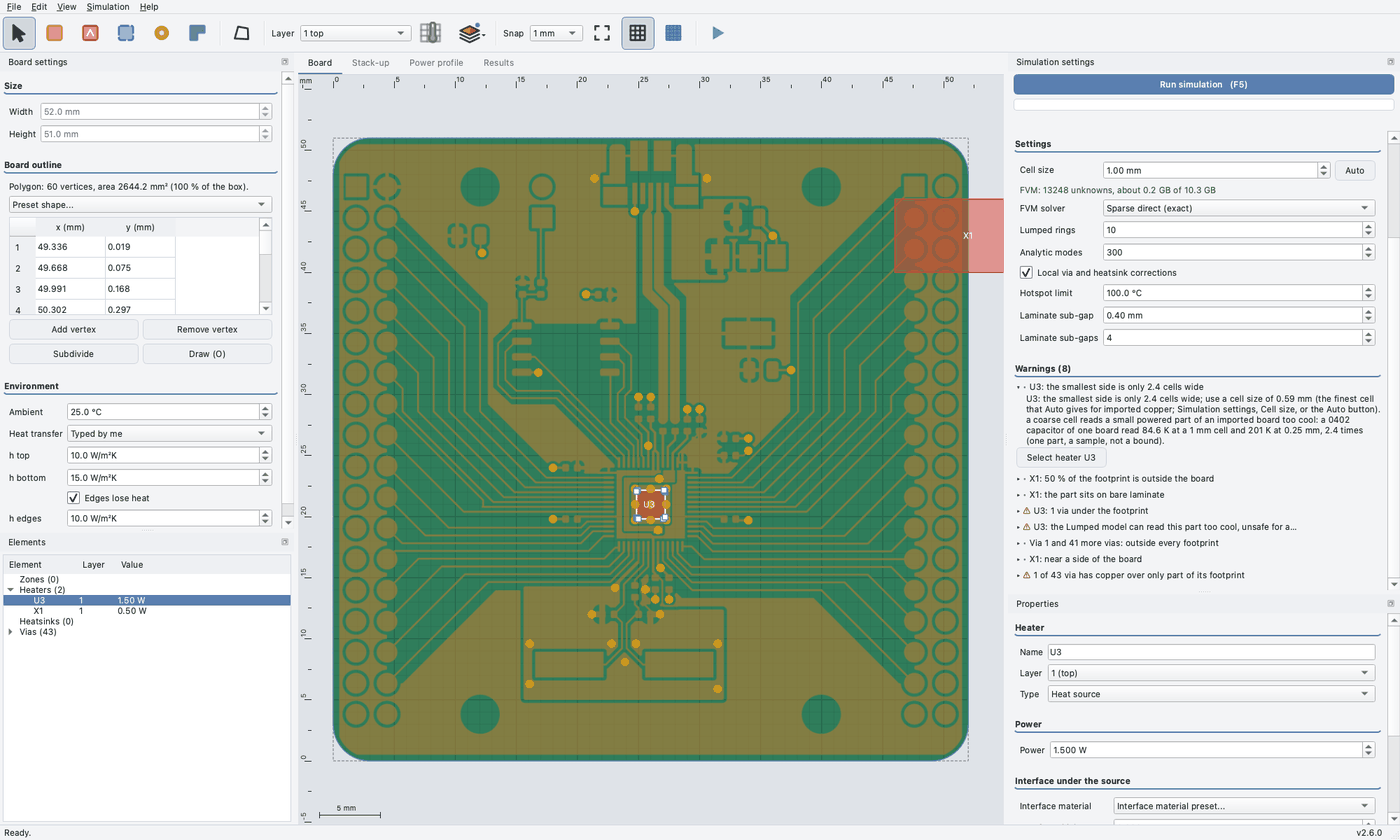
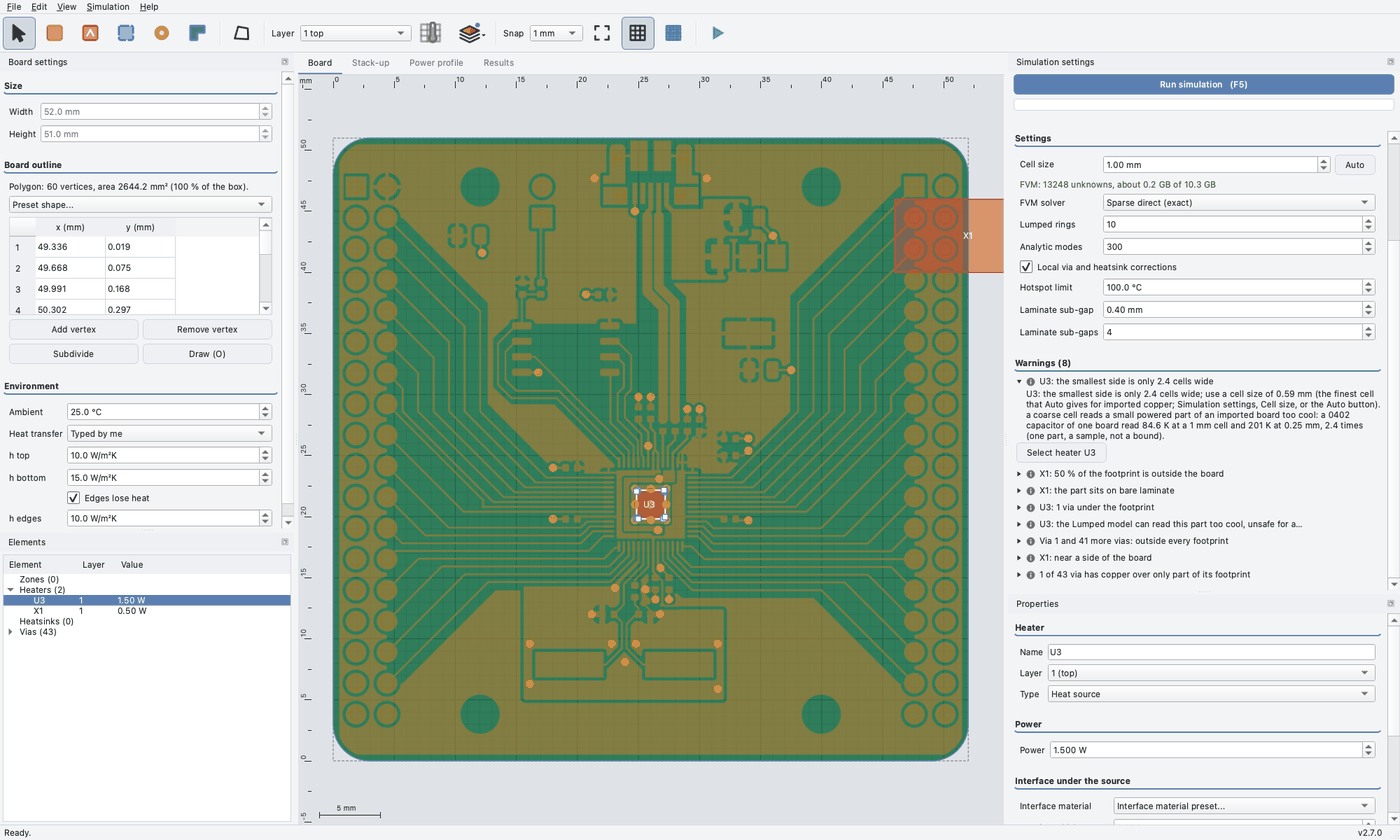
Review the warning badges and Run / Stop: pictures, guide, verdict
Regenerate the imported summary picture after the severity fix, replace
the user guide's stale copy of editor_warnings.png, say that the Power
Calculator is stopped by closing it and that Run is held briefly after
a Stop, add a stress scenario for the calculator job, and write the
review in releases/2.7.0/final-opinion/gui-warning-icons.md.

Claude-Session: https://claude.ai/code/session_01XgeLDd5tWg6CEJL9TQpCpU

diff --git a/pcbthermal/help/index.html b/pcbthermal/help/index.html
@@ -230,7 +230,7 @@ over the copper it overlaps through the interface resistance (grease or paste 0.
 <tr><td>Analytic modes</td><td>Number of cosine modes per direction (more resolve smaller parts).</td></tr>
 <tr><td>Local via and heatsink corrections</td><td>Apply vias and heatsinks locally in the analytical model instead of smearing them.</td></tr>
 <tr><td>Hotspot limit (°C)</td><td>Temperature above which an area is reported as a hotspot.</td></tr>
-<tr><td>Run / Stop</td><td>Run in the background. While any calculation runs (a simulation, an animation, a power-profile run or its analysis, the Power Calculator) the same button, in the dock and in the tool bar, reads <b>Stop</b> (<kbd>Ctrl</kbd>+<kbd>.</kbd>): it stops the calculation at once, nothing is kept from it, and the button is <b>Run</b> again when the calculation ends, fails or is cancelled. <kbd>F5</kbd> does nothing while a calculation runs. There is no Pause: a sparse solve cannot be paused.</td></tr>
+<tr><td>Run / Stop</td><td>Run in the background. While any calculation runs (a simulation, an animation, a power-profile run or its analysis, the Power Calculator) the same button, in the dock and in the tool bar, reads <b>Stop</b> (<kbd>Ctrl</kbd>+<kbd>.</kbd>): it stops the calculation at once, nothing is kept from it, and the button is <b>Run</b> again when the calculation ends, fails or is cancelled. <kbd>F5</kbd> does nothing while a calculation runs, and after a Stop the Run button comes back after a fraction of a second, so that a double click on Stop does not start a new run. The Power Calculator is a window of its own that keeps the keyboard and the mouse while it is open: there the calculation is stopped by closing the calculator. There is no Pause: a sparse solve cannot be paused.</td></tr>
 </table>
 
 <h2 id="models">9. The models</h2>

diff --git a/tests/test_gui_stress.py b/tests/test_gui_stress.py
@@ -1677,6 +1677,29 @@ def test_a_double_click_on_stop_does_not_start_a_new_run(win, qtbot):
         assert win.solver_panel.run.isEnabled()
 
 
+def test_the_power_calculator_job_shows_stop_and_is_cancelled(win, qtbot):
+    """The Power Calculator is modal, so the window's Stop cannot be clicked while it computes: the window shows Stop (its job is a calculation), the
+    cancel path stops it ('Cancelled.' in the calculator, Compute usable again), and closing the calculator also stops its job (review)."""
+    from pcbthermal.gui import calculator as calc, compute
+    load(win, example_board())
+    win.doc.set_options(models=("fvm",), cell_mm=0.5)
+    for how in ("stop", "close"):
+        dlg = calc.PowerCalculator(win.doc, win)
+        qtbot.addWidget(dlg)
+        dlg.band.setChecked(True)                                             # the band runs several solves: long enough to stop
+        dlg.measured.setValue(90.0)
+        dlg.compute.click()
+        qtbot.waitUntil(lambda: _is_stop(win), timeout=20000)
+        if how == "stop":
+            win.cancel_simulation()                                          # the same path as the Stop button and Ctrl+.
+            assert dlg.result.text() == "Cancelled." and dlg.compute.isEnabled()
+        else:
+            dlg.reject()                                                     # closing the calculator cancels its job
+        assert not compute.busy() and not compute.ENGINE.known
+        qtbot.waitUntil(lambda: _is_run(win), timeout=5000)
+        dlg.close()
+
+
 def test_stop_cancels_an_animation_and_a_profile_run(win, qtbot):
     """An animation and a power-profile run are calculations too: the button is Stop, a click cancels them, and Run returns."""
     load(win, example_board())

diff --git a/releases/2.7.0/final-opinion/gui-warning-icons.md b/releases/2.7.0/final-opinion/gui-warning-icons.md
@@ -1,0 +1,37 @@
+# Review of the severity badges, the explicit warning severity and Run / Stop (2.7.0)
+
+Branch `fix/gui-warning-icons-270` (from `develop` 5bcaf57c): the executor's commits d6122208 (severity), cc77c4e0 (badges), 41008a88 (Stop), 9f709a28 (tests and documents) and 8f2d4c94 (the overlapping-jobs stress test), then the corrections of this review, each with a test that fails without it.
+
+## Verdict
+
+**GO with the corrections below.** The Stop path is sound: one busy state for every calculation, the queued jobs cancelled before the running one, the button back to Run after an end, a failure and a cancel, no process left. The badges are drawn as the maintainer chose (solid amber triangle for an alert, grey circle for a note, beside a plain-text title, no bullet, accessible names) and are centred on the lowercase letters at device pixel ratio 1 and 2 in both themes. Two defects were found in the program and fixed, one test isolation defect and two stale pictures.
+
+## Findings, by severity
+
+1. **Defect in the program, a double click on Stop started a new run** (fixed, `MainWindow._on_busy`, `_release_run_hold`, `SolverPanel.set_hold`). The cancel is synchronous, so the button under the pointer is Run before the second click of a double click arrives. Reproduced offscreen through the real window with a press, release, double-click and release: on the dock button a new simulation was queued (busy, one job); on the toolbar the Run tool button that replaces Stop received the second click and started a run as well. Now Run (dock button and the action, so F5 and the toolbar too) stays disabled for one `QApplication.doubleClickInterval()` after a Stop and comes back by itself; a direct call of `run_simulation` (the API of the tests) is not held. Test `tests/test_gui_stress.py::test_a_double_click_on_stop_does_not_start_a_new_run` (fails on 9f709a28).
+2. **Defect in the program, notes shown as alerts in the Results summary** (fixed, `checks._SEVERE_WORDS`). The warnings of the models (`analytic`, `api`, `fvm`, `profiles`, `copper.model_warnings`) are still plain strings; `api.Simulation.warnings` gives them a severity through the old word list, which held `too hot`, `unsafe`, `unreliable`, `wrong`. So the Analytic copper-spread note (it quotes '9 % too hot') and the imported-copper `FILL_NOTE` ('7 to 10 % too hot') were drawn as alerts: on the harness boards `two_layer_partial`, `part_top_path`, `plate_pad`, and in the regenerated picture `results_summary_imported.png` (two triangles), against the maintainer's rule that a measured error is a note. The list now holds only failure words (`will not run`, `cannot`, `refus`, `not run`, `did not converge`, `did not settle`, `did not reach`, `heats nothing`, `runaway`): SOR not converging, the per-layer edge loop and the 3D solid not run stay alerts. The sweep test of the branch did not catch this because the summary wraps every plain string before the test looks (it checks that a severity exists, not where it came from). Test `tests/test_warning_severity.py::test_the_fallback_of_a_plain_model_string_follows_the_definition_of_an_alert`; `tests/test_theme_coherence.py` used 'unsafe' as its alert word and now uses a failure word. A run of the 17 harness boards: every input warning is explicit, every remaining word-classified run warning is a note.
+3. **Defect in a test, order dependence** (fixed, `tests/test_warning_icons.py::_all_cases`). The alignment measurement left the application at 16 pt and the last theme; `tests/test_gui.py::test_docks_open_wide_enough_and_keep_the_run_button_in_sight` then failed (dock 310 against 420 px) when run after it. The font and theme are restored; the two files pass together (33 passed).
+4. **Stale pictures** (fixed): `docs/images/results_summary_imported.png` regenerated after finding 2 (all notes now); `pcbthermal/help/editor_warnings.png`, the user guide's copy, was still the old picture with ⚠ and • (byte-identical to `docs/images` at 5bcaf57c): replaced by the regenerated one. `docs/images/editor_warnings.png`, `editor.png` and `results_summary.png` of the executor are right (neutral paths, the new badges, Run shown idle, never Stop). No other picture of `docs/images` or `pcbthermal/help` shows the Warnings rows or the old Cancel button (the others show the dock without warnings; `outline.png`, `stackup.png` and the like differ from a fresh run only by the 2.7.0 numbers of the status line, a release chore, not this branch).
+5. **Stale document** (fixed): the guide said that Stop covers the Power Calculator; the calculator is modal, so the window's Stop cannot be clicked while it computes (the window shows Stop, and closing the calculator stops its job). The Run / Stop row now says so and mentions the short hold after a Stop; `CHANGELOG.md` and `docs/versions.md` carry the two review corrections.
+6. **Limit to record**: the warnings of the models are still plain strings classified by words; a new model warning that names a failure in other words will be a note. Marking them at the source needs `warn` in a module that `analytic`, `fvm` and `profiles` can import without a cycle (`checks` imports them); a later item.
+7. **Limit to record (pre-existing)**: in `results_summary_imported.png` the dock's `Warnings (5)` box has no rows (it is so in the `develop` picture too); not looked into here.
+8. **Open for the maintainer**: which input warnings are alerts is the executor's reading of the rule. Borderline notes: a via outside the board ('ignored by every model'), a metal block that touches no copper ('takes almost no heat'), two heaters that overlap, a total power of zero. They are notes now.
+
+## Checked and found right
+
+* `gui/compute.py`: `_notify` after `submit`, `_finish`, `cancel`, the dead-process branch of `poll` and `shutdown`; `cancel_all` cancels the waiting jobs first (measured: simulation running, animation and analysis queued; cancelled in the order 1, 2, 0, no job started, no process alive, status 'Cancelled.' and 'Analysis failed: Cancelled.'); a cancel while the result already waits in the queue drops the result and leaves the state idle; a failing job gives Run back; closing the window (`shutdown`) emits idle.
+* `main_window.py`: the toolbar swaps the actions at the end (Run is the last action), `a_run` is disabled while busy so F5 does nothing, `Ctrl+.` is unchanged, the memory block of the dock button never leaves it as Stop or disabled after a run (`_style_run_button` recomputes from `blocked`); the separate Cancel button is gone and nothing refers to it.
+* The Power Calculator: its job makes the window show Stop; the cancel path stops it ('Cancelled.', Compute enabled again) and closing the dialog stops it (new test `test_the_power_calculator_job_shows_stop_and_is_cancelled`).
+* Severity: every `_add` and `warn` has a severity, the maintainer's two examples (outside the board: alert; 9 vias under the footprint: note), the field survives pickling; no warning text changed (every string literal removed from `checks.py` and `api.py` is present again in the added lines).
+* Badges: rendered offscreen at ratio 1 and 2, light and dark, an alert, an open note and wrapped titles: centred on the first line, the opened text indented under the badge, colours only from the `alert` and `muted` tokens, the cache keyed by kind, size, ratio and colour, redrawn from the current theme at each paint; the Results summary uses the same `WarningAccordion`.
+
+## Runs (on this branch with the corrections, offscreen)
+
+* `tests/regression` at 2 mm: **153 passed** (22.5 s): no number moves.
+* `tests/regression` with the documentation, licence-header, help, tooltip, shortcut, warning-text, warning-context, severity, icon, theme-coherence, boxes and version tests: 970 passed (1 min 44 s).
+* `tests/test_gui_stress.py` whole, with the three new Stop scenarios (double click, Power Calculator) and the executor's: **61 passed** (9 min 29 s, load average about 2).
+* `tests/test_warning_icons.py` with `tests/test_gui.py` in that order: 33 passed (failed before finding 3).
+
+## Not verified
+
+The real macOS display (SF font metrics, retina): offscreen only. The whole battery is the tester's.

diff --git a/CHANGELOG.md b/CHANGELOG.md
@@ -21,7 +21,7 @@ MAJOR for incompatible changes, MINOR for new features, PATCH for fixes. Release
 
 ### Changed
 
-- **Solid severity badges in the Warnings box and the Results summary, an explicit severity on every warning, and Run becomes Stop while a calculation runs** (`fix/gui-warning-icons-270`; display and control only, no number moves, no warning text changes): (1) each warning row shows a solid badge, an amber triangle with an exclamation mark for an **alert** (the model will not run, a part is off the board or heats nothing, a loop does not converge, the power runs away, the input is wrong) and a grey circle with an *i* for a **note**; the bullet is gone and the dock and the summary share the one component. The badge is its own widget drawn by QPainter in theme tokens (`alert`, `muted`) at the device pixel ratio and centred, from the font metrics, on the lowercase letters of the first line of the plain-text title (a test renders it at ratio 1 and 2, in both themes and three font sizes, and fails above 1 px); the accessible name of a row is *Warning: <title>* or *Note: <title>*. (2) The severity is a field set where the warning is created (`checks.warn`, `_add(severity=)`, the run warnings of `api.py`); the search for words in the text (`checks.warning_severity`) is only the fallback of plain strings, so *9 vias under the footprint* is a note although its text quotes *too hot*. (3) The Run button of the dock and of the tool bar is **Stop** (tooltip *Stop the calculation (Ctrl+.)*) while any calculation runs (simulation, animation, profile run, analysis, Power Calculator) and goes back to Run when it ends, fails or is cancelled; `F5` is ignored while one runs; there is no Pause. The separate Cancel button of the dock is gone (Stop is the same button; `Ctrl+.` is unchanged). Tests: `tests/test_warning_severity.py`, `tests/test_warning_icons.py`, the Stop scenarios of `tests/test_gui_stress.py`.
+- **Solid severity badges in the Warnings box and the Results summary, an explicit severity on every warning, and Run becomes Stop while a calculation runs** (`fix/gui-warning-icons-270`; display and control only, no number moves, no warning text changes): (1) each warning row shows a solid badge, an amber triangle with an exclamation mark for an **alert** (the model will not run, a part is off the board or heats nothing, a loop does not converge, the power runs away, the input is wrong) and a grey circle with an *i* for a **note**; the bullet is gone and the dock and the summary share the one component. The badge is its own widget drawn by QPainter in theme tokens (`alert`, `muted`) at the device pixel ratio and centred, from the font metrics, on the lowercase letters of the first line of the plain-text title (a test renders it at ratio 1 and 2, in both themes and three font sizes, and fails above 1 px); the accessible name of a row is *Warning: <title>* or *Note: <title>*. (2) The severity is a field set where the warning is created (`checks.warn`, `_add(severity=)`, the run warnings of `api.py`); the search for words in the text (`checks.warning_severity`) is only the fallback of plain strings, so *9 vias under the footprint* is a note although its text quotes *too hot*. (3) The Run button of the dock and of the tool bar is **Stop** (tooltip *Stop the calculation (Ctrl+.)*) while any calculation runs (simulation, animation, profile run, analysis, Power Calculator) and goes back to Run when it ends, fails or is cancelled; `F5` is ignored while one runs; there is no Pause. The separate Cancel button of the dock is gone (Stop is the same button; `Ctrl+.` is unchanged). Tests: `tests/test_warning_severity.py`, `tests/test_warning_icons.py`, the Stop scenarios of `tests/test_gui_stress.py`. Review: the word list kept for plain strings (the warnings of the models) now holds only the words of a failure, because 'too hot' and 'unsafe' turned notes that quote a measured error (the Analytic copper-spread note, the imported-copper notes) into alerts; and Run stays off for one double-click interval after a Stop, because the second click of a double click on Stop started a new run.
 - The edge-laminate warning says that its 3.2 mm figures are against a cell-centred finite-volume reference that reads hot (the finite-element numbers are the best estimate) and the thin-laminate text says "finite-element solution"; the imported-copper warning of the Lumped and Analytic says that its finite-volume reference is not converged (text only, no number moves).
 
 - **FDM: the face of a drawn copper layer from the copper fill of the cells** (`fdm.Network._copper_face_sheets`, switch `face_fill` of `fdm.Network` and `fdm.solve_steady`, `fix/fdm-copper-edge-faces`, from `research/fdm-inset-edge`; moves FDM numbers on purpose): the in-plane face sheet between two nodes of a copper layer is built from the copper fill of the two cells the face runs through instead of the harmonic mean of the nodal half-copper sheets, so the first copper link is the whole copper sheet and a copper edge is not smeared over a cell. Against the independent 3D solver every copper-edge board gets closer and none overshoots (bare-pad board at 1 / 0.5 mm -7.31 / -4.32 to -5.36 / -2.86 %; 3 mm gap -5.49 / -3.17 / -1.96 to -3.52 / -1.92 / -1.20 %); against the finite-element limit of a 10 mm plate with the copper 0.5 mm inside the wall at 200 / 1000 W/m2K -5.09 / -12.21 to -2.28 / -4.45 % (0.5 mm cell). A partial cure: the wall and sub-gap term and the cut cell are unchanged, the turned squares gain little (mean of ten at 1 mm -6.97 / -14.23 to -5.77 / -11.99 %) and where the copper reaches a turned or curved outline the FDM reads 0.05 to 0.5 point further from the finite elements (two errors no longer cancelling). Unknowns, matrix pattern and capacities are unchanged, uniform and hatched copper are bit-identical, imported layers and metal-block boards keep their rule; 21 frozen FDM records and 7 times to 63 % move (pending file `fdm-copper-edge-faces`). `docs/validation.md` 47, `docs/theory.md` 3, tests `tests/test_fdm_copper_edge_faces.py`.

diff --git a/docs/versions.md b/docs/versions.md
@@ -36,7 +36,7 @@ What was implemented in every version (with the module where it lives and how it
 * **Imported copper on an outline takes the outline per pixel (FVM)** (`fix/imported-copper-outline-mask`; reviewed: GO with fixes; validation 38): see 'Planned: 2.7.0' item 1 and `CHANGELOG.md`.
 * **Three kinds of hole in the import record and on the editor board** (`feature/hole-categories`; display only; see 'Planned: 2.7.0' item 17 and `CHANGELOG.md`).
 * **Map markers, the cut overlay of the profiles and the via span warning** (`fix/results-map-markers-and-cut-locator`, `fix/hot-mark-position-and-span-warning`, `fix/cut-overlay-from-display`, corrected on `fix/cut-overlay-review`; display and text only; `releases/2.7.0/final-opinion/cut-overlay.md`; 'Planned: 2.7.0' items 14 and 15).
-* **Severity badges, an explicit warning severity and Run / Stop** (`fix/gui-warning-icons-270`; display and control only, no number moves): the Warnings box and the Results summary show a solid amber triangle for an alert and a grey circle for a note beside a plain-text title (no bullet; `gui/warning_box.py`, the badge centred from the font metrics), each warning carries `severity` from its creation (`checks.warn`; the word list only for plain strings), and the Run button is Stop while any calculation runs (`gui/compute.py` `BUSY`, `cancel_all`; F5 ignored, no Pause). Tests `tests/test_warning_icons.py`, `tests/test_warning_severity.py`, `tests/test_gui_stress.py` (Stop scenarios); `CHANGELOG.md`.
+* **Severity badges, an explicit warning severity and Run / Stop** (`fix/gui-warning-icons-270`; display and control only, no number moves): the Warnings box and the Results summary show a solid amber triangle for an alert and a grey circle for a note beside a plain-text title (no bullet; `gui/warning_box.py`, the badge centred from the font metrics), each warning carries `severity` from its creation (`checks.warn`; the word list only for plain strings), and the Run button is Stop while any calculation runs (`gui/compute.py` `BUSY`, `cancel_all`; F5 ignored, no Pause). Review (`releases/2.7.0/final-opinion/gui-warning-icons.md`): the fallback word list holds only failure words, Run is held for one double-click interval after a Stop. Tests `tests/test_warning_icons.py`, `tests/test_warning_severity.py`, `tests/test_gui_stress.py` (Stop scenarios, the double click, the Power Calculator); `CHANGELOG.md`.
 * **Boxes, warnings as an accordion, layer keys, export of the maps as displayed, the Keyboard and mouse dialog** (`feature/gui-boxes-warnings-layer-keys`, `fix/overlay-underlay-and-shortcuts-window`; display only; 'Planned: 2.7.0' items 5 to 9).
 * **Robustness and balance tests** (`fix/robustness-and-balance-tests`; no number moves): the traceback of a failed calculation in `pcbthermal-errors.log`, `power_out["blocks"]` only with a block, the floor `viawell.WELL_LOG_FLOOR`, `docs/research.md` empty again; tests `tests/test_robustness_and_balance.py` (`releases/2.7.0/final-opinion/small-branches.md` B).
 * **Edge-laminate warning texts** (`fix/edge-laminate-warning-text`, then `fix/edge-warning-fem-numbers` against the independent finite-element check of validation 46; text only): the numbers of `checks.check_edge_laminate` and `_edge_laminate_uncut`.
